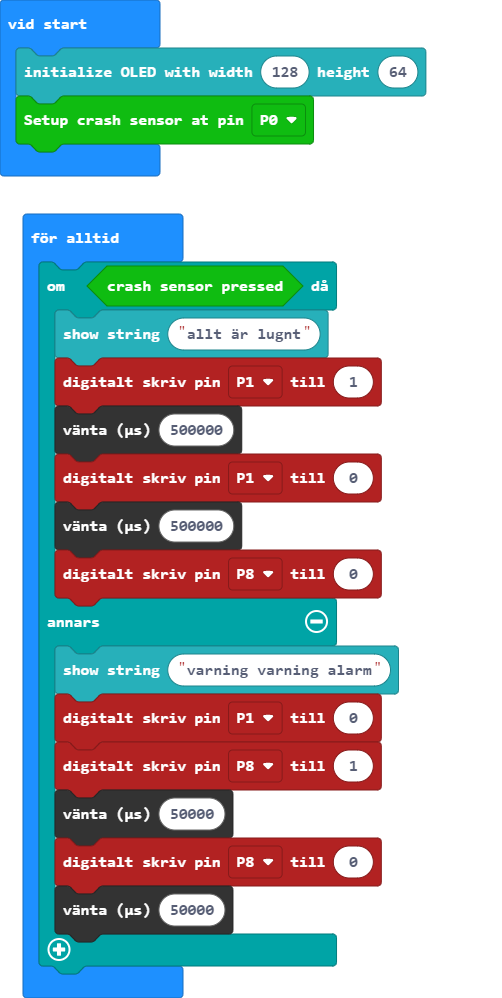
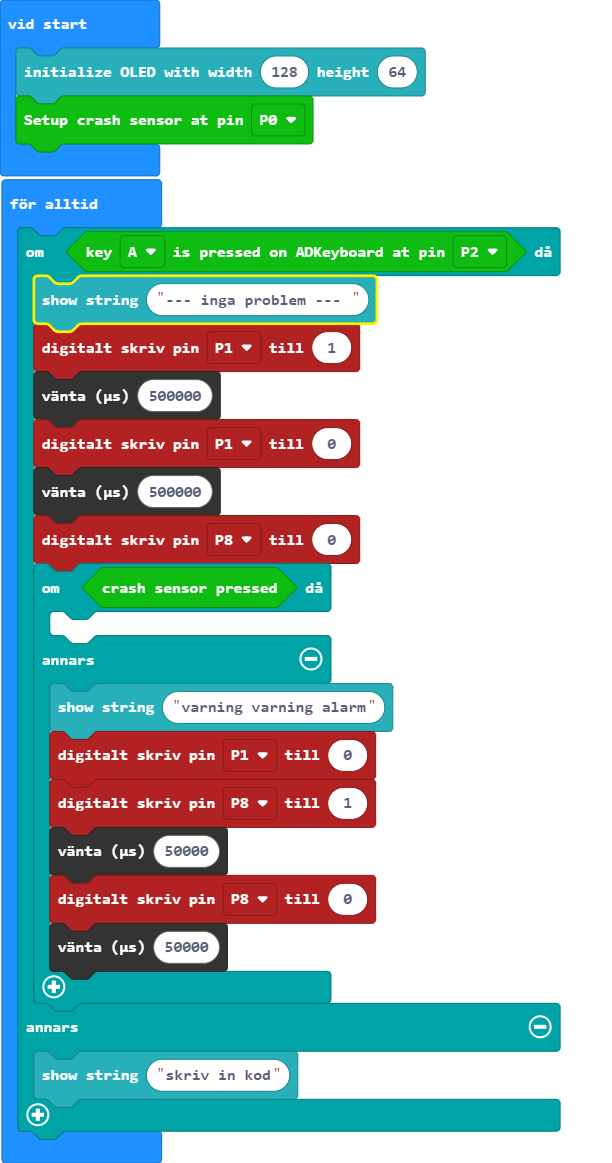
Update pxt.json, main.blocks, main.ts

diff --git a/main.ts b/main.ts
@@ -1,19 +1,24 @@
 OLED.init(128, 64)
 tinkercademy.crashSensorSetup(DigitalPin.P0)
 basic.forever(function () {
-    if (tinkercademy.crashSensor()) {
-        OLED.writeStringNewLine("allt är lugnt")
+    if (tinkercademy.ADKeyboard(ADKeys.A, AnalogPin.P2)) {
+        OLED.writeStringNewLine("--- inga problem --- ")
         pins.digitalWritePin(DigitalPin.P1, 1)
         control.waitMicros(500000)
         pins.digitalWritePin(DigitalPin.P1, 0)
         control.waitMicros(500000)
         pins.digitalWritePin(DigitalPin.P8, 0)
+        if (tinkercademy.crashSensor()) {
+        	
+        } else {
+            OLED.writeStringNewLine("varning varning alarm")
+            pins.digitalWritePin(DigitalPin.P1, 0)
+            pins.digitalWritePin(DigitalPin.P8, 1)
+            control.waitMicros(50000)
+            pins.digitalWritePin(DigitalPin.P8, 0)
+            control.waitMicros(50000)
+        }
     } else {
-        OLED.writeStringNewLine("varning varning alarm")
-        pins.digitalWritePin(DigitalPin.P1, 0)
-        pins.digitalWritePin(DigitalPin.P8, 1)
-        control.waitMicros(50000)
-        pins.digitalWritePin(DigitalPin.P8, 0)
-        control.waitMicros(50000)
+        OLED.writeStringNewLine("skriv in kod")
     }
 })
